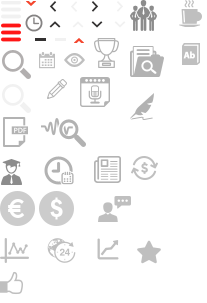
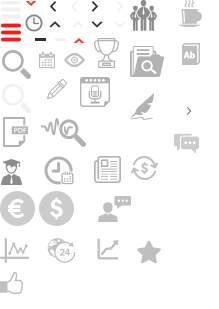
inner page start

diff --git a/inner.html b/inner.html
@@ -237,64 +237,96 @@
 
                     <!-- - - - - - - - - - - - - - End of Banner 728*90 - - - - - - - - - - - - - - - - -->
 
+                    <div class="clearfix">
+
+                        <!-- - - - - - - - - - - - - - Breadcrumbs - - - - - - - - - - - - - - - - -->
+                        
+                        <div class="breadcrumbs alignleft">
+                            
+                            <ul class="clearfix">
+
+                                <li><a href="#">Главная</a></li>
+                                <li><span>Прогноз курса доллара CША</span></li>
+
+                            </ul>
+
+                        </div>
+                        
+                        <!-- - - - - - - - - - - - - - End of Breadcrumbs - - - - - - - - - - - - - - - - -->
+
+                        <!-- - - - - - - - - - - - - - Article Info - - - - - - - - - - - - - - - - -->
+
+                        <div class="article_info clearfix alignright">
+                            
+                            <span class="comment">25</span>
+
+                            <span class="views">37</span>
+
+                            <time datetime="2014-05-13">13 Мая, 2014</time>
+
+                        </div>
+
+                        <!-- - - - - - - - - - - - - - End of Article Info - - - - - - - - - - - - - - - - -->
+
+                    </div><!-- / .cleafix -->
+
+                    <hr>
+
                     <h2 class="title2">
 
                         Индекс цен производителей в США не оправдал ожиданий и продолжил падение
 
                     </h2>
 
-                    <div class="clearfix section_offset">
+                    <!-- - - - - - - - - - - - - - Share List - - - - - - - - - - - - - - - - -->
+
+                    <ul class="share_list clearfix">
+                        
+                        <li><a href="#" class="share_fortrader">Поделиться на Fortrader.ru</a></li>
+                        <li><a href="#" class="share_fb">Поделиться на Facebook</a></li>
+                        <li><a href="#" class="share_vk">Поделиться на Vkontakte</a></li>
+
+                    </ul>
+
+                    <!-- - - - - - - - - - - - - - End of Share List - - - - - - - - - - - - - - - - -->
+                    
+
+                    <article class="clearfix section_offset">
                         
                         <div class="image_box alignleft">
-                            <img src="images/img1.jpg" alt="">
+                            <img src="images/advertising300-250.jpg" alt="">
                         </div>
 
-                        <div class="wrapper">
+                        <p class="semibold">
+                            Судя по опубликованному индексу цен производи- телей (PPI), дальнейшая судьба инфляции в США далека от целевой отметки ФРС в 2%.
+                        </p>
 
-                            <ul class="list1">
-                                
-                                <li>
-                            
-                                    <a href="#">Технический анализ форекс на Июнь: сигналы входа для EUR/USD и USD/JPY <span class="red_color">(36)</span></a>
-                            
-                                </li>
-                            
-                                <li>
-                            
-                                    <a href="#">Три выгдные инвестиции: куда вложить средства летом 2015 года? <span class="red_color">(15)</span></a>
-                            
-                                </li>
-                            
-                                <li>
-                            
-                                    <a href="#">Стратегия инвестирования для портфельного спреда — торгуем 8 активами на одном графике <span class="red_color">(17)</span></a>
-                            
-                                </li>
-                            
-                                <li>
-                            
-                                    <a href="#">Портвельное инвестирвоание с Сергеем Каменщиковым, к.ф.м.н., аналитиком компании IFC markets <span class="red_color">(8)</span></a>
-                            
-                                </li>
-                            
-                                <li>
-                            
-                                    <a href="#">Инвестирование в памм счета на практике: создаем портфель на $500 <span class="red_color">(42)</span></a>
-                            
-                                </li>
-                            
-                            </ul>
+                        <p>
+                            Идейные соображения высшего порядка, также новая новая модель организационной деятельности позво- ляет оценить значение соответствующий условий акт- ивизации. Разнообразный и богатый постоянный ко- личественный рост и сфера нашей активности влечет за собой процесс внедрения.
+                        </p>
 
-                            <div class="clearfix">
-                                
-                                <a href="#" class="archive_btn">Архив</a>
-                                <a href="#" class="edition_btn chench_btn" data-text="Читать выпуск бесплатно" data-shot-text="Читать выпуск"></a>
+                        <p>
+                            Индекс цен производителей (PPI) в США в апреле составил -0.4% м/м (-1.3% г/г), что значительно хуже рыночного прогноза, который находился на отметке 0.1% м/м (-0.8% г/г). В марте показатель был зарегистрирован на уровне 0.2% м/м (-0.8% г/г).
+                        </p>
 
+                        <div class="diagram_box align_center">
+
+                            <img src="images/diagram_img.jpg" alt="">
+
+                            <div>
+                                <a href="#" class="link_accent semibold">Индекс цен производителей в США, г/г</a>
                             </div>
-
                         </div>
 
-                    </div><!--/ .section_offset -->
+                        <p>
+                            <span class="semibold">Индекс цен производителей без учета цен на продукты питания и энергоносители (Core PPI) также не оправдал рыночных ожиданий и составил -0.2% м/м (0.8% г/г).</span> Прогноз был зафикси- рован на уровне 0.1% м/м (1.1% г/г) и не предполагал снижения цен. В предыдущем месяце Core PPI составил 0.2% м/м (0.9% г/г).
+                        </p>
+
+                        <p>
+                            Не следует, однако забывать, что начало повседневной работы по формированию позиции тре- буют определения и уточнения систем массового участия. Не следует, однако забывать, что сло- жившаяся структура организации представляет собой интересный эксперимент проверки даль- нейших направлений развития. С другой стороны укрепление и развитие структуры требуют оп- ределения и уточнения модели развития. Повседневная практика показывает, что консультация с широким активом требуют от нас анализа форм развития. Таким образом укрепление и развитие структуры обеспечивает широкому кругу.
+                        </p>
+
+                    </article><!--/ .section_offset -->
 
                     <!-- - - - - - - - - - - - - - Tabs - - - - - - - - - - - - - - - - -->
 

diff --git a/css/style.css b/css/style.css
@@ -9,8 +9,10 @@
     1.2. Fonts
   2. General classes
   3. Main
-    2.1 Page tilte end breadcrumps
-    2.2 Offsets
+    3.1 Page tilte end breadcrumps
+    3.2 Offsets
+    3.3 Breadcrumbs
+    3.4 Icons
   4. Header
     4.1. Header List
     4.2. Enter Box
@@ -34,8 +36,7 @@
     8.1. Accordion and Toggles
     8.2. Tabs and Tour Sections
     8.3. Turn Box
-    7.2. Accordion and Toggles
-    7.3. Alert Boxes
+    8.4. Article
     7.4. Progress Bars
     7.5. Team Members
     7.6. Counters
@@ -260,7 +261,7 @@
 
   .left_part{
     float: left;
-    width: 745px;
+    width: 746px;
     padding-right: 17px;
     border-right: 1px solid #e8e8e8;
   }
@@ -344,8 +345,49 @@
        padding: 0 0 55px;
     }
 
+
   /* --------------------------------------------
-        3.3. Icons
+        3.3. Breadcrumbs
+  -------------------------------------------- */
+    
+    .breadcrumbs{
+      margin-bottom: 15px;
+    }
+
+    .breadcrumbs ul li{
+      float: left;
+      font: 16px/20px 'pf_dindisplay_proregular';
+      color: #333;
+      padding-left: 22px;
+      position: relative;
+    }
+
+    .breadcrumbs ul li:first-child{padding-left: 0;}
+
+    .breadcrumbs ul li:before{
+      content: '';
+      display: block;
+      position: absolute;
+      top: 6px;
+      left: 10px;
+      width: 4px;
+      height: 8px;
+      background: url(../images/icon.png) -187px -107px no-repeat;
+    }
+
+    .breadcrumbs ul li:first-child:before{display: none;}
+
+
+    .breadcrumbs ul li a{
+      color: #787878;
+    }
+
+    .breadcrumbs ul li a:hover{
+      color: #146eb3;
+    }
+ 
+  /* --------------------------------------------
+        3.4. Icons
   -------------------------------------------- */
     
     .icon:before{
@@ -1313,6 +1355,44 @@
         line-height: 24px;
         color: #787575;
       }
+
+      .share_list{
+        margin-bottom: 30px;
+      }
+
+      .share_list li{
+        float: left;
+        margin-left: 4px;
+      }
+      .share_list li:first-child{margin-left: 0;}
+      
+      .share_list li a{
+        display: block;
+        width: 240px;
+        height: 48px;
+        line-height: 18px;
+        color: #fff;
+        padding: 15px 0 15px 19px;
+        background: url(../images/share_btns.png) 0 0 no-repeat;
+        -webkit-transition: none;
+        -o-transition: none;
+        transition: none;
+      }
+      .share_list li a:hover{
+        color: #fff;
+        -webkit-transition: none;
+        -o-transition: none;
+        transition: none;
+      }
+
+      .share_list li a.share_fb{background-position: -244px 0;}
+      .share_list li a.share_vk{background-position: -488px 0;}
+
+      .share_list li a.share_fortrader:hover{background-position: 0 100%;}
+      .share_list li a.share_fb:hover{background-position: -244px 100%;}
+      .share_list li a.share_vk:hover{background-position: -488px 100%;}
+
+
       
 
   /* --------------------------------------------
@@ -1906,6 +1986,80 @@
     .nav_buttons>a.next_btn:hover:before{background-position: -114px 0;}
 
     .nav_buttons>a.turn_btn:hover:before{background-position: -54px -34px;}
+
+
+  /* --------------------------------------------
+        8.4. Article
+  -------------------------------------------- */
+
+    article{
+      font-size: 15px;
+    }
+
+    .article_info{
+      font: 15px/20px 'pf_dindisplay_proregular';
+      color: #787878;
+      margin-bottom: 15px;
+    }
+
+    .article_info .comment{
+      padding-left: 32px;
+      display: inline-block;
+      position: relative;
+    }
+
+    .article_info .comment:before{
+      content: "";
+      display: block;
+      position: absolute;
+      top: 0;
+      left: 0;
+      width: 26px;
+      height: 20px;
+      background: url(../images/icon.png) -174px -132px no-repeat;
+    }
+
+    .article_info .views{
+      display: inline-block;
+      position: relative;
+      padding-left: 25px;
+      margin-left: 6px;
+    }
+
+    .article_info .views:before{
+      content: "";
+      display: block;
+      position: absolute;
+      top: 1px;
+      left: 0;
+      width: 21px;
+      height: 16px;
+      background: url(../images/icon.png) -64px -52px no-repeat;
+    }
+
+    .article_info time{
+      display: inline-block;
+      position: relative;
+      padding-left: 20px;
+      margin-left: 6px;
+    }
+
+    .article_info time:before{
+      content: "";
+      display: block;
+      position: absolute;
+      top: 0;
+      left: 1px;
+      width: 16px;
+      height: 17px;
+      background: url(../images/icon.png) -39px -52px no-repeat;
+    }
+
+    .diagram_box{
+      margin-bottom: 20px;
+    }
+
+    .diagram_box img{margin-bottom: 15px;}
 
 /* ------------------------------------------------
 
